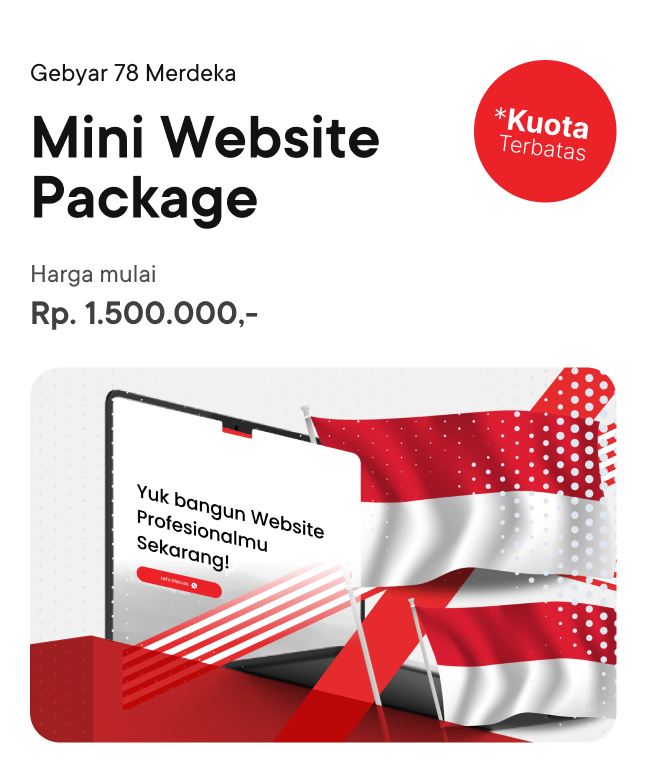
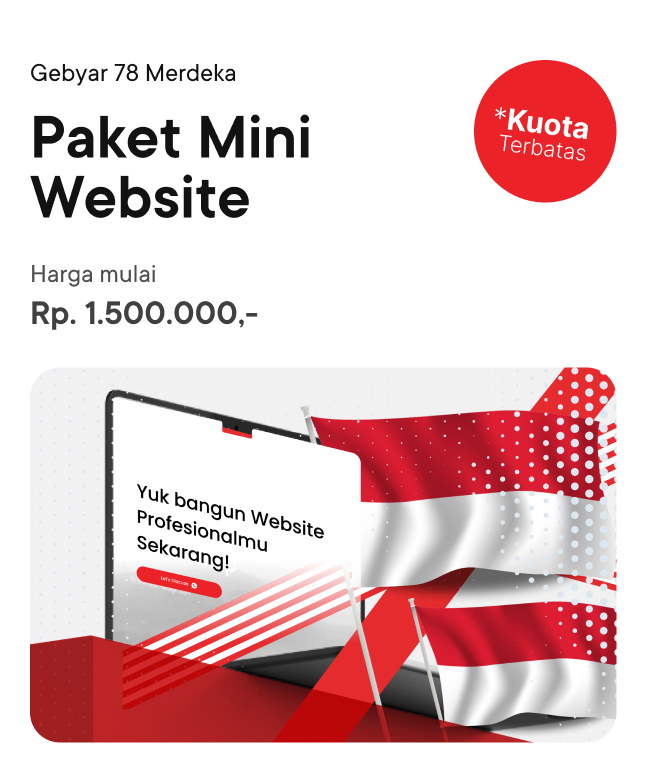
Update

Changed region(s): [[0.0309, 0.1237, 0.5873, 0.3093]]

diff --git a/index.html b/index.html
@@ -94,7 +94,7 @@
               class="btn btn-primary text-white font-ttcommons fw-semibold border-0"
               style="border-radius: 12px; padding: 10px 40px"
             >
-              Ambil Sekarang
+              Daftar Sekarang
             </a>
           </div>
         </div>
@@ -107,7 +107,7 @@
         <div class="w-100 row g-0 px-0">
           <div class="box1 col-12 col-lg bg-transparent">
             <h1 class="font-ttcommons fw-semibold text-black">
-              Tingkatkan digitalisasi bisnismu dengan mini website
+              Bawa bisnis anda ke era digital dengan Mini Website
             </h1>
           </div>
           <div
@@ -130,7 +130,7 @@
           class="box-large w-100 bg-primary px-3 px-lg-5 py-4 py-lg-5 d-flex flex-column align-items-start"
         >
           <h3 class="text-white font-ttcommons fw-semibold m-0">
-            Yang kamu dapatkan
+            Keuntungan Mini Website
           </h3>
           <div
             class="w-100 my-4"
@@ -218,8 +218,8 @@
           >
             <div class="col-12 col-lg-8 p-0">
               <h1 class="font-ttcommons text-white fw-medium">
-                Kami membantu anda tumbuh, dengan pengalaman digital
-                yang tulus.
+                Kami membantu bisnis anda memasuki pasar digital
+                dengan tenaga profesional dan berpengalaman
               </h1>
             </div>
             <div class="col-12 col-lg">
@@ -267,8 +267,8 @@
             class="font-ttcommons fw-semibold mb-5"
             style="color: #121212"
           >
-            Kami komitmen hadirkan solusi kreatif untuk hasil yang
-            luar biasa.
+            Adalah komitmen kami untuk hadirkan solusi kreatif bagi
+            beragam bentuk bisnis Anda
           </p>
           <div
             class="grid-box w-100 row p-0 g-0 m-0 mb-4 mb-lg-0 gap-3 gap-lg-5"
@@ -495,7 +495,7 @@
                     Gebyar 78 Merdeka
                   </h5>
                   <h2 class="font-ttcommons fw-semibold">
-                    Mini Website<br />Package
+                    Paket Mini<br />Website
                   </h2>
                 </div>
                 <div
@@ -538,7 +538,8 @@
                     Kapan lagi bisa begini?
                   </h1>
                   <p class="font-ttcommons fw-normal text-white">
-                    digitalisasi bisnismu, biar makin melejit!
+                    buat bisnis Mu menjadi digital, agar makin cuan
+                    dan melejit
                   </p>
                 </div>
 
@@ -547,7 +548,7 @@
                   target="_blank"
                   class="px-5 py-3 bg-danger rounded-4 text-white font-ttcommons fw-semibold fs-3"
                 >
-                  Ambil Sekarang
+                  Daftar dan Konsultasi (free)
                 </a>
               </div>
             </div>
